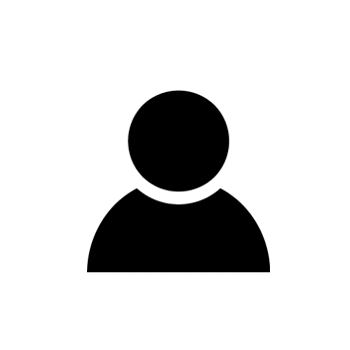
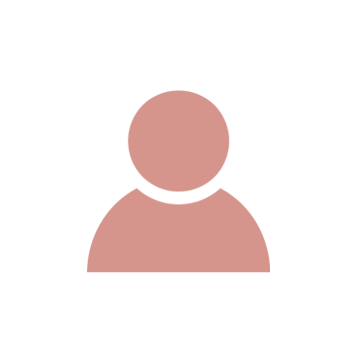
Nya ikoner
Nya ikoner från designgruppen

Changed region(s): [[0.2286, 0.2571, 0.7714, 0.8]]

diff --git a/web/themes/icon.css b/web/themes/icon.css
@@ -5,3 +5,12 @@
 #map:after { background:  url("img/map.png") 50% 50% no-repeat; background-size: 30px 30px;  }
 #search:after { background:  url("img/search.png") 50% 50% no-repeat;  background-size: 30px 30px; }
 #mypage:after { background:  url("img/profile.png") 50% 50% no-repeat;  background-size: 30px 30px; }
+
+
+/*
+De nedan är de aktiva därför t.ex. map"A" osv.
+*/
+#top10a:after { background:  url("img/podiumw.png") 50% 50% no-repeat; background-size: 30px 30px; }
+#mapa:after { background:  url("img/mapw.png") 50% 50% no-repeat; background-size: 30px 30px;  }
+#searcha:after { background:  url("img/searchw.png") 50% 50% no-repeat;  background-size: 30px 30px; }
+#mypagea:after { background:  url("img/profilew.png") 50% 50% no-repeat;  background-size: 30px 30px; }
